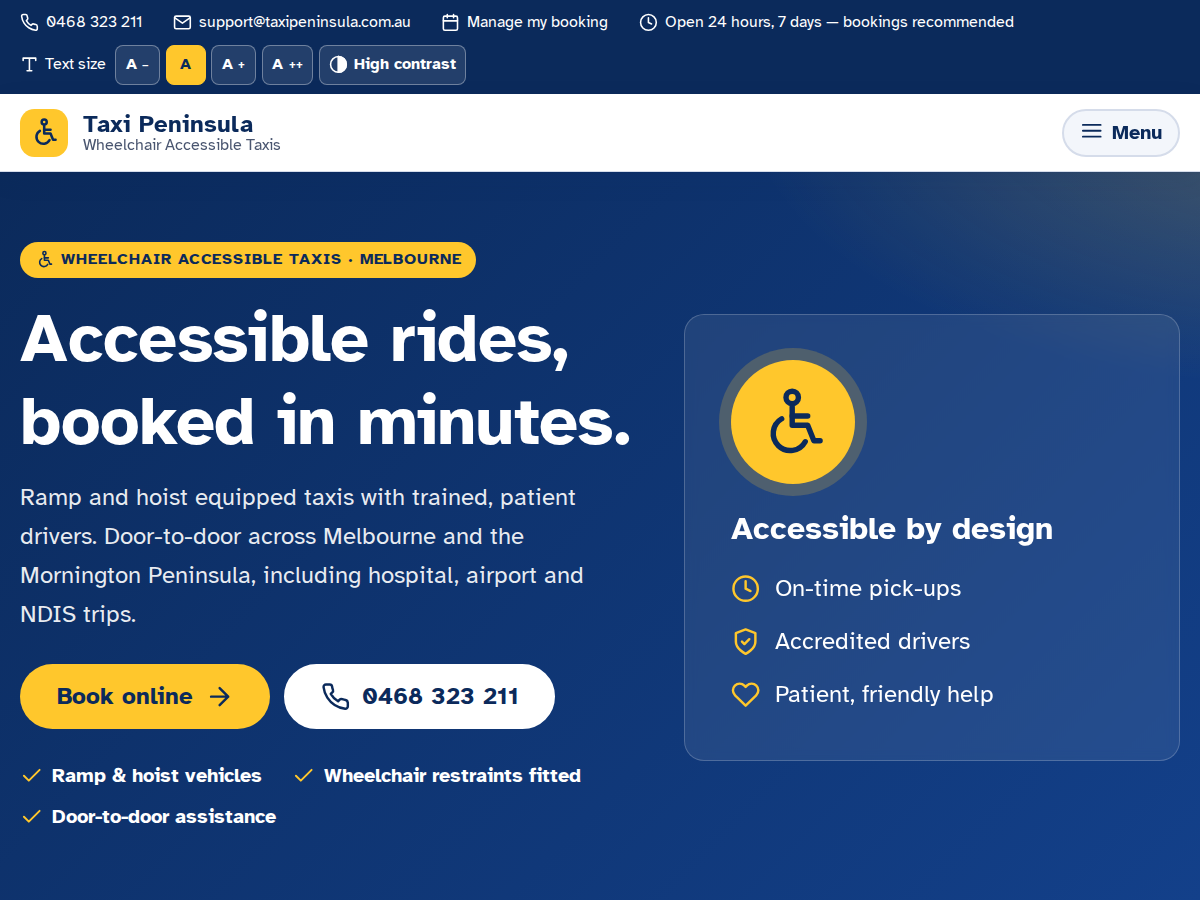
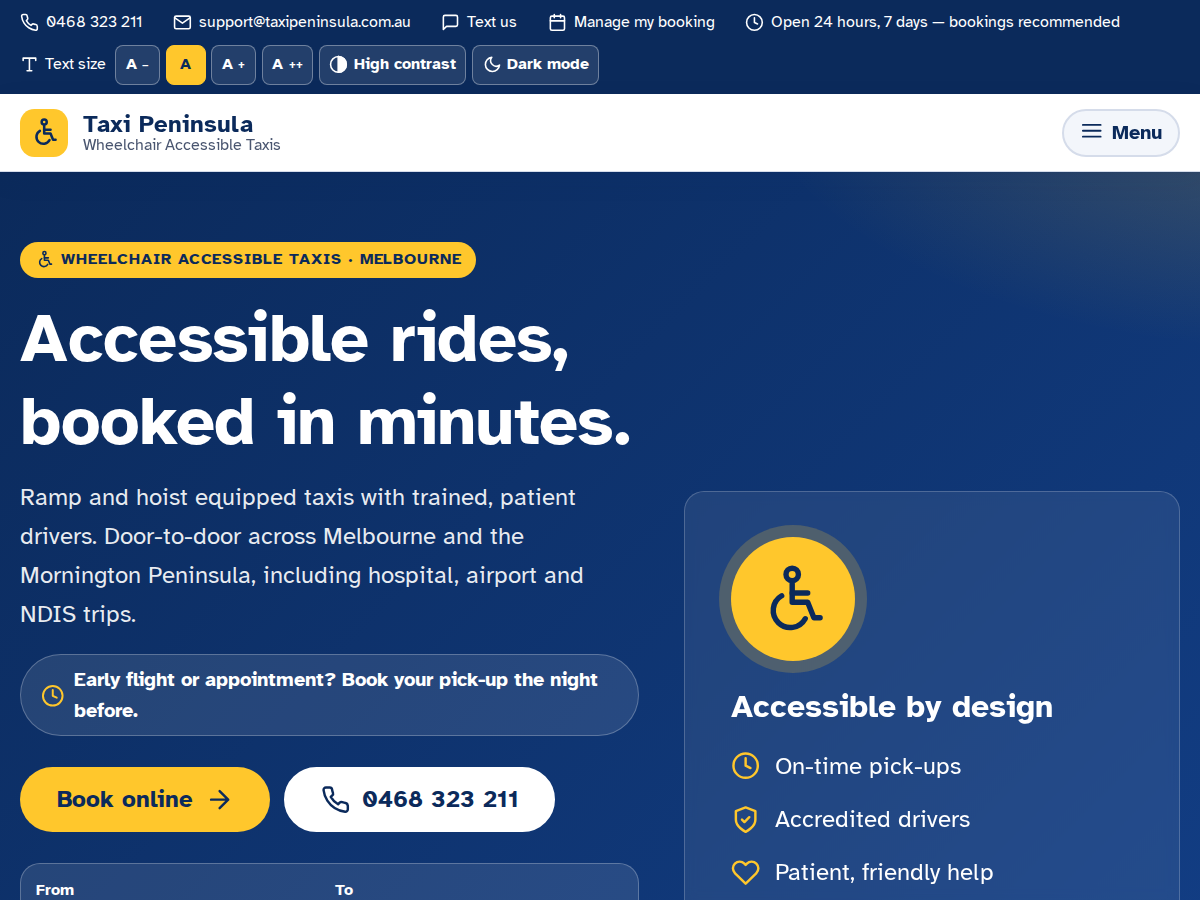
Hide menu links to unpublished pages; roomier quick-book bar; keep desktop menu on one line
- Menu items pointing at draft pages (e.g. Terms, Complaints before they are
  published) are hidden from visitors
- Quick-book bar lays out From/To on one row and Date/Continue on the next
- Desktop header never wraps: phone button moves to the top bar only,
  brand no longer shrinks
- Theme screenshot taken from a fresh install

Claude-Session: https://claude.ai/code/session_01XsjuzsdBhLz5W38p4d2qJy

diff --git a/taxi-peninsula/assets/css/main.css b/taxi-peninsula/assets/css/main.css
@@ -243,7 +243,7 @@ a:hover { text-decoration-thickness: 0.15em; }
 .primary-nav__cta { display: flex; gap: var(--space-xs); }
 .primary-nav__cta .btn { white-space: nowrap; }
 
-@media (min-width: 80.01em) and (max-width: 100em) {
+@media (min-width: 80.01em) {
 	.primary-nav__cta .btn--ghost { display: none; }
 }
 @media (min-width: 80.01em) {
@@ -908,17 +908,17 @@ html[data-contrast="high"] .announce { background: #fff; color: #000; border-bot
 
 /* Hero quick-book bar */
 .quickbook {
-	display: grid; gap: var(--space-xs); grid-template-columns: 1fr 1fr auto auto; align-items: end;
+	display: grid; gap: var(--space-xs); grid-template-columns: 1fr 1fr; align-items: end;
 	margin: 0 0 var(--space-l); padding: var(--space-s); background: rgb(255 255 255 / .1);
 	border: 1px solid rgb(255 255 255 / .25); border-radius: var(--radius-lg);
 }
 .quickbook__field { display: grid; gap: .25rem; min-width: 0; }
 .quickbook__field label { font-weight: 700; font-size: var(--step--1); color: #fff; }
 .quickbook input { min-height: 3rem; border-color: transparent; background: #fff; color: #16213a; }
-.quickbook__field--date input { width: 11rem; }
+.quickbook__field--date input { width: 100%; }
 .quickbook__go { min-height: 3rem; }
 .quickbook .combo__list { color: var(--c-text); }
-@media (max-width: 64em) { .quickbook { grid-template-columns: 1fr 1fr; } .quickbook__field--date input { width: 100%; } }
+
 @media (max-width: 30em) { .quickbook { grid-template-columns: 1fr; } }
 html[data-contrast="high"] .quickbook { background: #000; border-color: #fff; }
 
@@ -966,3 +966,14 @@ html[data-contrast="high"] .quickbook { background: #000; border-color: #fff; }
 .tp-todo { background: #fffbea; border: 2px dashed #d49b00; color: #5c4200; }
 span.tp-todo { padding: 0 .3em; border-radius: .3em; font-style: italic; }
 .site-footer .hours-status { align-items: flex-start; } .site-footer .hours-status__dot { margin-top: .55em; }
+
+/* Keep the full desktop menu on one line. */
+@media (min-width: 80.01em) {
+	.site-header__inner { flex-wrap: nowrap; }
+	.primary-nav { gap: var(--space-m); }
+	.primary-nav .menu { gap: var(--space-2xs) clamp(.6rem, .2rem + .8vw, 1.25rem); }
+	.primary-nav .menu a { white-space: nowrap; }
+}
+
+.brand { flex: none; }
+.brand__name { white-space: nowrap; }

diff --git a/taxi-peninsula/inc/setup.php b/taxi-peninsula/inc/setup.php
@@ -179,3 +179,21 @@ add_filter( 'excerpt_length', static function () {
 add_filter( 'excerpt_more', static function () {
 	return '…';
 } );
+
+/**
+ * Hide menu links to pages/posts that aren't published yet (e.g. draft policy
+ * pages created by Setup), so visitors never hit a "not found" page.
+ */
+add_filter( 'wp_nav_menu_objects', static function ( $items ) {
+	return array_values(
+		array_filter(
+			$items,
+			static function ( $item ) {
+				if ( 'post_type' !== $item->type || ! $item->object_id ) {
+					return true;
+				}
+				return 'publish' === get_post_status( (int) $item->object_id ) || current_user_can( 'edit_post', (int) $item->object_id );
+			}
+		)
+	);
+} );
